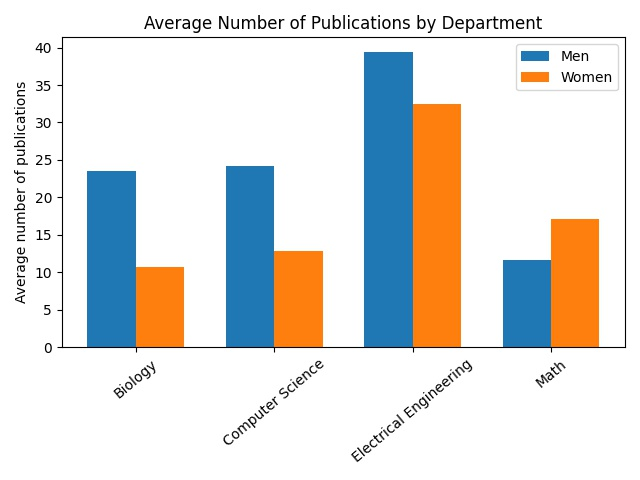
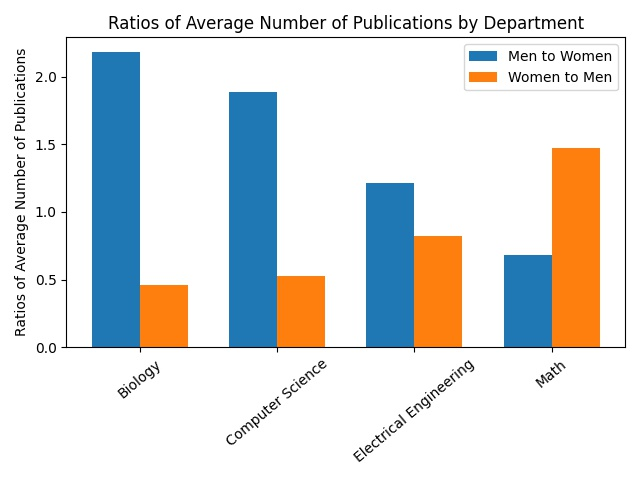
Add ratio to claim 6

diff --git a/claims.py b/claims.py
@@ -406,6 +406,44 @@ def claim_5():
     plt.savefig('./data/claim5.jpg')
 
 
+def claim_6_1():
+    bio_m = list(filter(lambda rid: get_gender(rid) == 'male', bio_rids))
+    bio_f = list(filter(lambda rid: get_gender(rid) == 'female', bio_rids))
+    cs_m = list(filter(lambda rid: get_gender(rid) == 'male', cs_rids))
+    cs_f = list(filter(lambda rid: get_gender(rid) == 'female', cs_rids))
+    ee_m = list(filter(lambda rid: get_gender(rid) == 'male', ee_rids))
+    ee_f = list(filter(lambda rid: get_gender(rid) == 'female', ee_rids))
+    math_m = list(filter(lambda rid: get_gender(rid) == 'male', math_rids))
+    math_f = list(filter(lambda rid: get_gender(rid) == 'female', math_rids))
+
+    bio_m_first = statistics.mean(list(map(lambda rid: len(get_publications_list(rid)), bio_m)))
+    bio_f_first = statistics.mean(list(map(lambda rid: len(get_publications_list(rid)), bio_f)))
+    cs_m_first = statistics.mean(list(map(lambda rid: len(get_publications_list(rid)), cs_m)))
+    cs_f_first = statistics.mean(list(map(lambda rid: len(get_publications_list(rid)), cs_f)))
+    ee_m_first = statistics.mean(list(map(lambda rid: len(get_publications_list(rid)), ee_m)))
+    ee_f_first = statistics.mean(list(map(lambda rid: len(get_publications_list(rid)), ee_f)))
+    math_m_first = statistics.mean(list(map(lambda rid: len(get_publications_list(rid)), math_m)))
+    math_f_first = statistics.mean(list(map(lambda rid: len(get_publications_list(rid)), math_f)))
+
+    m_to_w = [bio_m_first / bio_f_first, cs_m_first / cs_f_first, ee_m_first / ee_f_first, math_m_first / math_f_first]
+    w_to_m = [bio_f_first / bio_m_first, cs_f_first / cs_m_first, ee_f_first / ee_m_first, math_f_first / math_m_first]
+
+
+    ind = np.arange(4)
+    width = 0.35
+    department = ('Biology', 'Computer Science', 'Electrical Engineering', 'Math')
+
+    plt.bar(ind, m_to_w, width, label="Men to Women")
+    plt.bar(ind + width, w_to_m, width, label='Women to Men')
+
+    plt.ylabel('Ratios of Average Number of Publications')
+    plt.title('Ratios of Average Number of Publications by Department')
+    plt.xticks(ind + width / 2, department, rotation=40)
+    plt.tight_layout()
+    plt.legend(loc='best')
+    plt.savefig('./data/claim6.jpg')
+
+
 def claim_6():
     bio_m = list(filter(lambda rid: get_gender(rid) == 'male', bio_rids))
     bio_f = list(filter(lambda rid: get_gender(rid) == 'female', bio_rids))
@@ -663,4 +701,4 @@ def claim_9():
     plt.savefig('./data/claim9.jpg')
 
 
-claim_4_2()
+claim_6_1()
